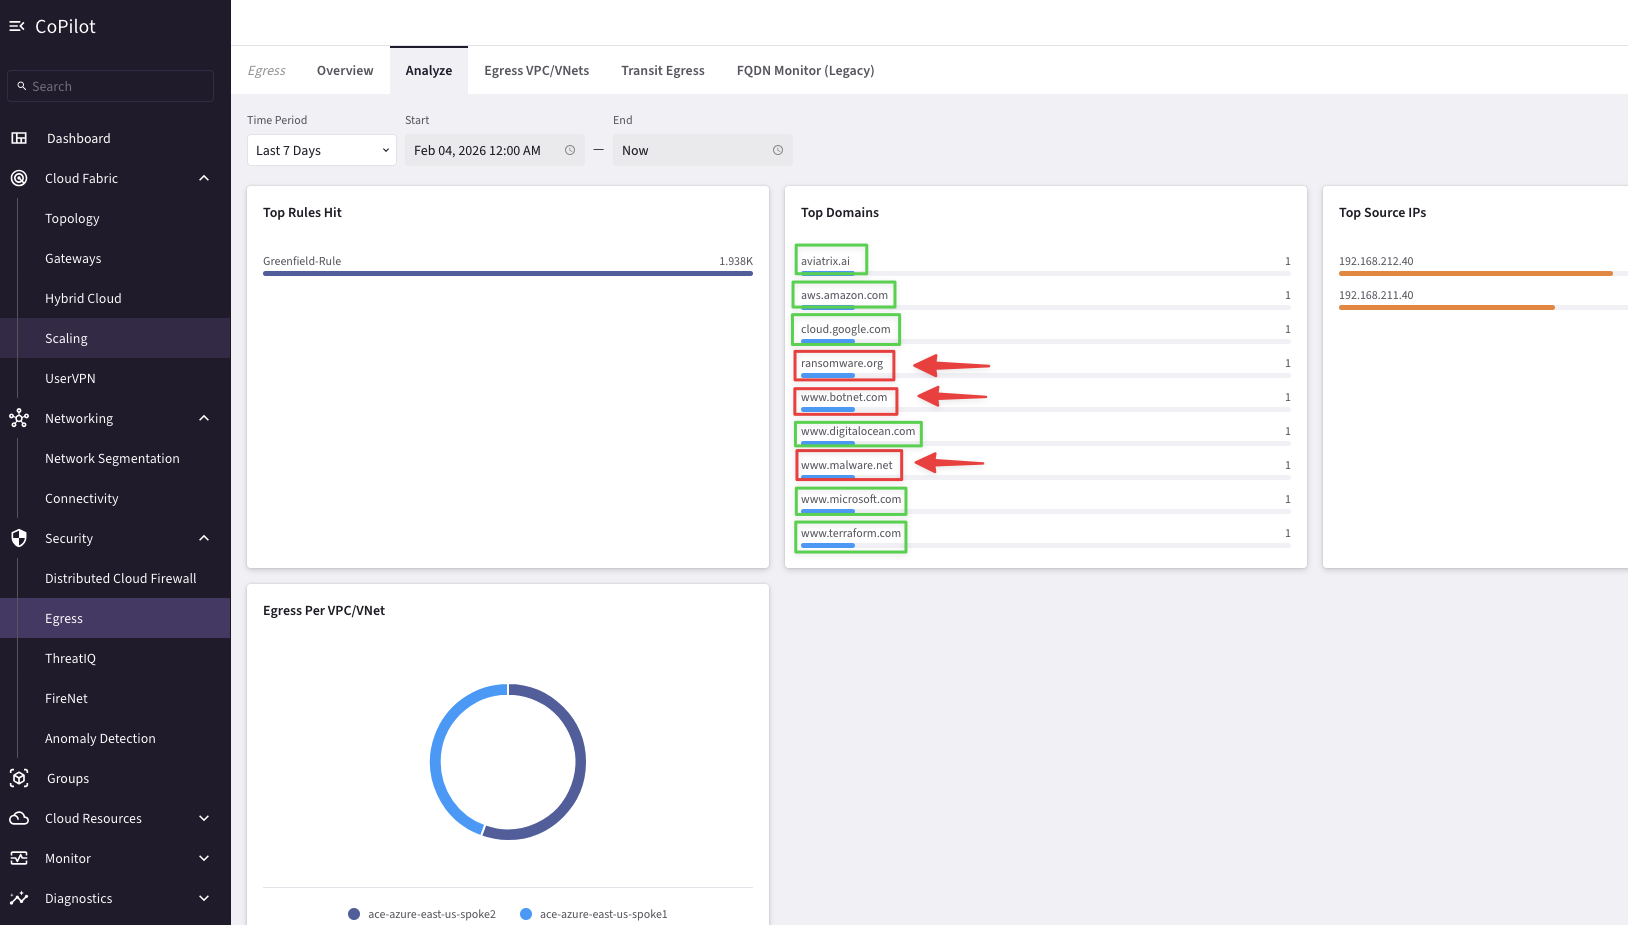
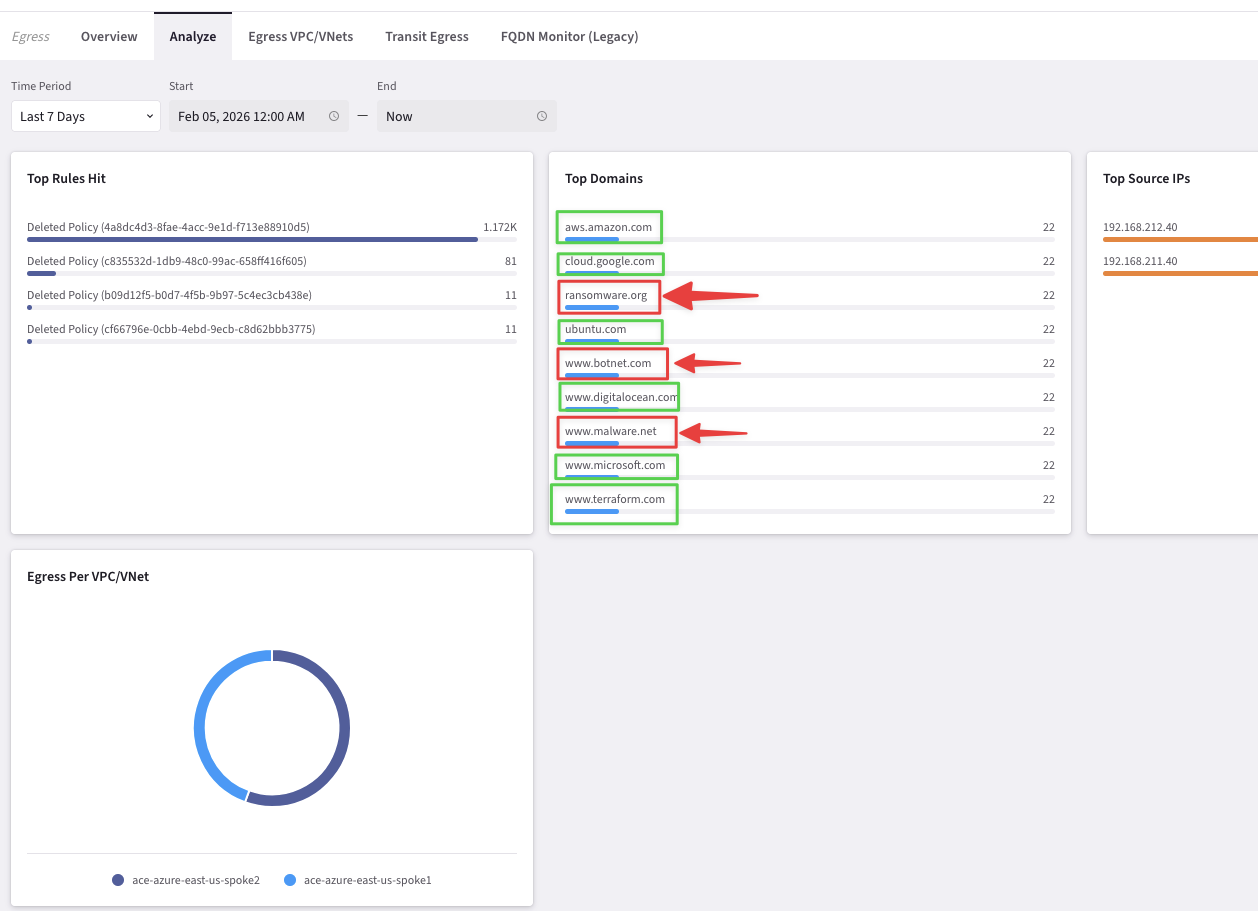
update for ops

diff --git a/ace_ops/docs/lab7.md b/ace_ops/docs/lab7.md
@@ -319,11 +319,11 @@ align: center
 Analyze
 ```
 
-The following domains should be blocked:  
+Block the following domains and allow all others:
 
-- www.ransomware.org  
+- www.ransomware.org
 
-- www.botnet.com  
+- www.botnet.com
 
 - www.malware.com
 
@@ -333,7 +333,7 @@ Let’s add two more rules to permit SSH traffic from the **BU1 Frontend** to th
 
 Navigate to **Security > Distributed Cloud Firewall**, then click `"+ Rule"`.
 
-Ensure these parameters are entered in the pop-up window `"Create New Rule"`:
+Ensure these parameters are entered in the pop-up window `"Create Rule"`:
 
 - **Name**: <span style='color:#479608'>inter-ssh-bu1frontend-bu1db</span>
 - **Source Smartgroups**: <span style='color:#479608'>BU1-FRONTEND</span>
@@ -361,7 +361,7 @@ align: center
 +Rule
 ```
 
-Ensure these parameters are entered in the pop-up window `"Create New Rule"`:
+Ensure these parameters are entered in the pop-up window `"Create Rule"`:
 
 - **Name**: <span style='color:#479608'>inter-ssh-bu1frontend-bu2db</span>
 - **Source Smartgroups**: <span style='color:#479608'>BU1-FRONTEND</span>
@@ -410,7 +410,7 @@ align: center
 +Rule
 ```
 
-Ensure these parameters are entered in the pop-up window `"Create New Rule"`:
+Ensure these parameters are entered in the pop-up window `"Create Rule"`:
 
 - **Name**: <span style='color:#479608'>ExplicitDenyAll</span>
 - **Source Smartgroups**: <span style='color:#479608'>Anywhere (0.0.0.0/0)</span>
@@ -517,8 +517,8 @@ Ensure these parameters are entered in the pop-up window `"Create WebGroup"`:
 - **Name**: <span style='color:#479608'>bu2-allowed-domains</span>
 - **Type**: <span style='color:#479608'>Domains</span>
 - **Domains/URLs**: <span style='color:#479608'> cloud.google.com</span>
-- **Domains/URLs**: <span style='color:#479608'> www.aviatrix.com</span>
 - **Domains/URLs**: <span style='color:#479608'> www.aws.amazon.com</span>
+- **Domains/URLs**: <span style='color:#479608'> www.ubuntu.com</span>
 
 then click on **Save**.
 
